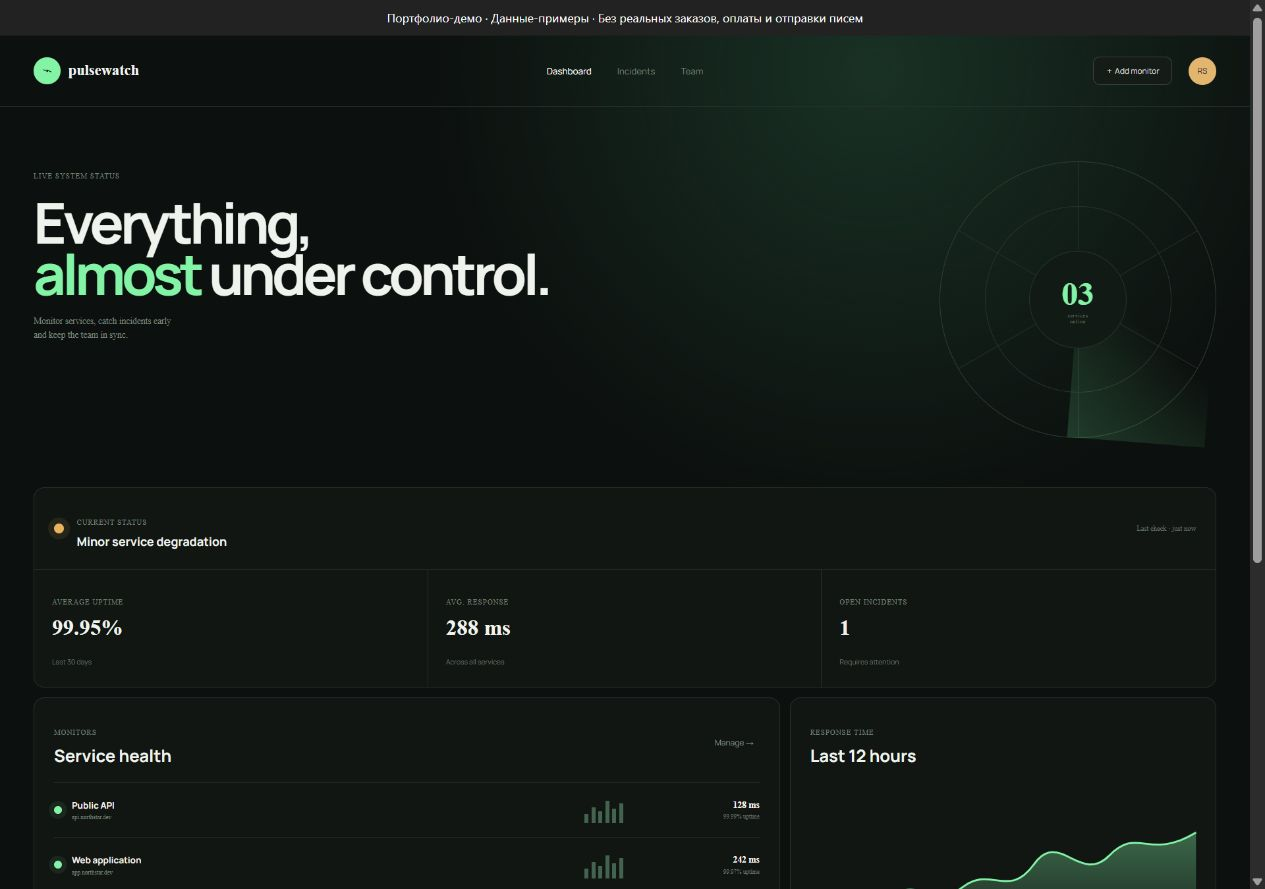
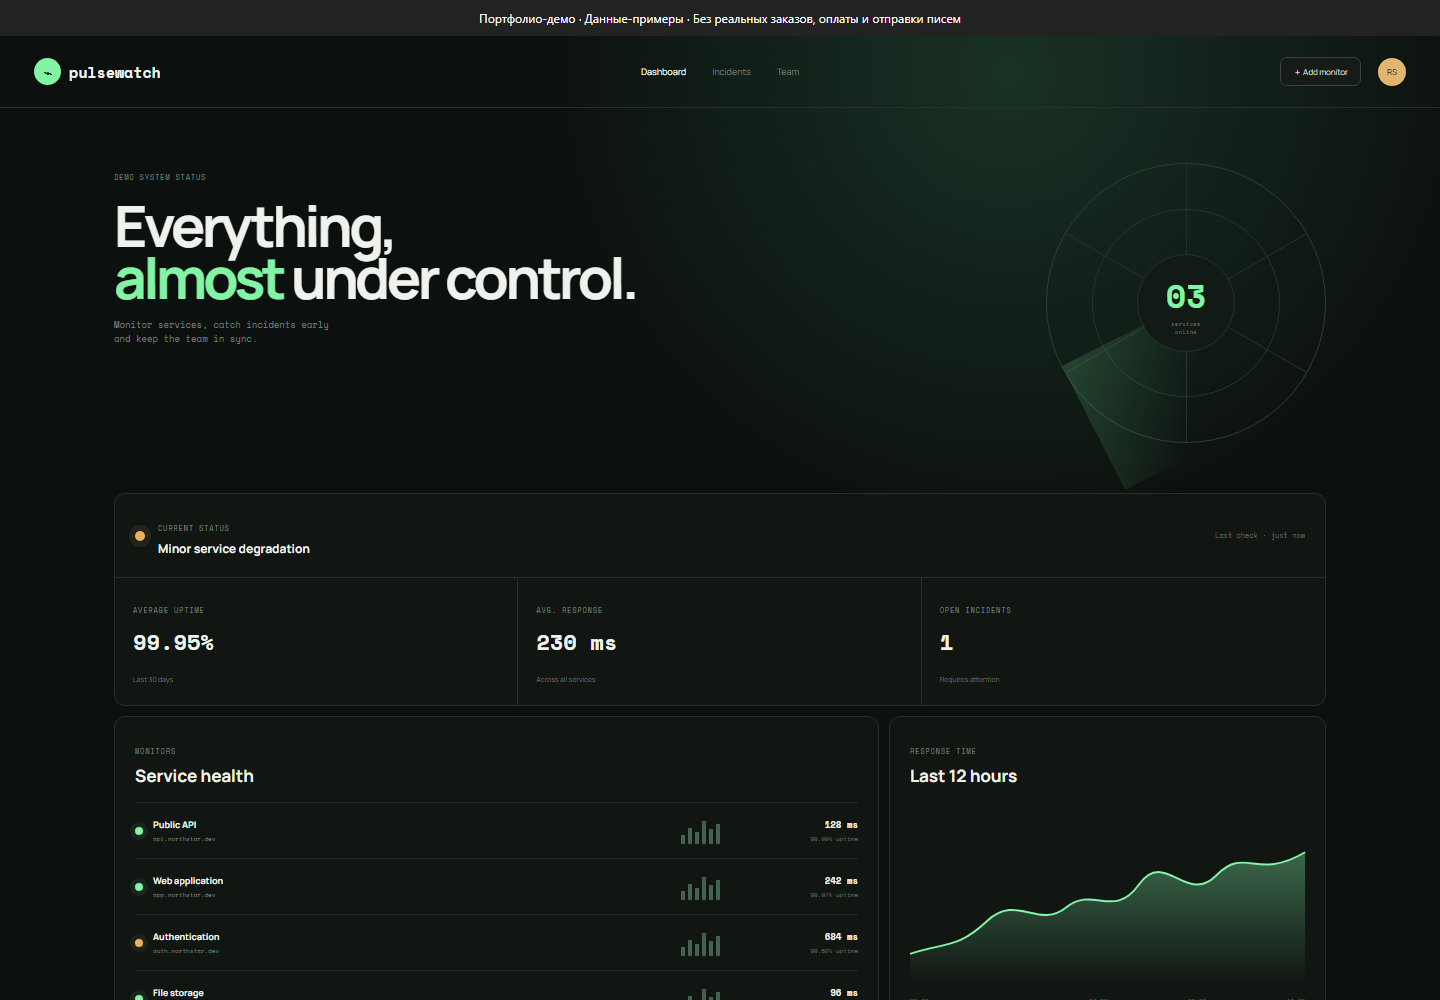
Complete responsive interactions and add browser regression checks

diff --git a/public/styles.css b/public/styles.css
@@ -1,1 +1,4 @@
 :root{font-family:Manrope,sans-serif;color:#f0f3ed;background:#0c100e;--green:#83f3a6;--line:#29302c;--muted:#7f8982}*{box-sizing:border-box}body{margin:0;min-width:320px;background:radial-gradient(circle at 70% 5%,#193125 0,transparent 28%),#0c100e}button,input{font:inherit}body>header{height:72px;display:grid;grid-template-columns:1fr auto 1fr;align-items:center;padding:0 34px;border-bottom:1px solid var(--line)}.logo{font:700 15px Space Mono}.logo i{display:inline-grid;place-items:center;width:27px;height:27px;margin-right:8px;border-radius:50%;background:var(--green);color:#101712;font-style:normal}nav{display:flex;gap:26px}nav a{color:#77817a;font-size:9px}nav .active{color:white}.add{justify-self:end;margin-right:45px;border:1px solid #3a443e;border-radius:7px;background:#151b17;color:#d9ddd8;padding:8px 12px;font-size:8px}.avatar{position:absolute;right:34px;display:grid;place-items:center;width:28px;height:28px;border-radius:50%;background:#e3b66f;color:#222;font-size:8px}main{max-width:1280px;margin:auto;padding:55px 34px 90px}.hero{display:flex;justify-content:space-between;min-height:330px}.hero small,.panel small,.overall small,.stats small{font:400 7px Space Mono;letter-spacing:.12em;color:#758078}.hero h1{margin:14px 0;font-size:57px;line-height:.92;letter-spacing:-.06em}.hero h1 em{color:var(--green);font-style:normal}.hero p{color:#78827b;font:400 9px/1.6 Space Mono}.radar{position:relative;width:280px;height:280px;border:1px solid #2d3e34;border-radius:50%}.radar:before,.radar:after{content:'';position:absolute;border:1px solid #26342c;border-radius:50%;inset:45px}.radar:after{inset:90px;background:#111a14}.radar>i{position:absolute;left:50%;top:0;bottom:0;border-left:1px solid #233129}.radar>i:nth-child(2){transform:rotate(60deg)}.radar>i:nth-child(3){transform:rotate(-60deg)}.radar span{position:absolute;z-index:2;left:50%;top:50%;transform:translate(-50%,-50%);font:700 33px Space Mono;color:var(--green);text-align:center}.radar span small{display:block;font-size:5px}.radar b{position:absolute;left:50%;top:50%;width:50%;height:50%;transform-origin:0 0;background:linear-gradient(35deg,#75ef9e30,transparent 70%);animation:scan 4s linear infinite}@keyframes scan{to{transform:rotate(360deg)}}.overview{border:1px solid var(--line);border-radius:11px;background:#111613}.overall{display:flex;align-items:center;gap:13px;padding:20px;border-bottom:1px solid var(--line)}.pulse{width:10px;height:10px;border-radius:50%;background:#e7b45d;box-shadow:0 0 0 6px #e7b45d18}.overall strong{display:block;margin-top:4px;font-size:12px}.overall time{margin-left:auto;color:#657068;font:400 7px Space Mono}.stats{display:grid;grid-template-columns:repeat(3,1fr)}.stats article{padding:18px;border-right:1px solid var(--line)}.stats article:last-child{border:0}.stats strong{display:block;margin:7px 0;font:700 22px Space Mono}.stats span{color:#6c766f;font-size:7px}.grid{display:grid;grid-template-columns:1.4fr .8fr;gap:10px;margin:10px 0}.panel{padding:20px;border:1px solid var(--line);border-radius:11px;background:#111613}.panel-head{display:flex;justify-content:space-between;align-items:center}.panel h2{margin:5px 0 0;font-size:17px}.panel-head button{border:0;background:none;color:#879189;font-size:8px}.monitor{display:grid;grid-template-columns:1fr 90px 75px;gap:12px;align-items:center;padding:14px 0;border-top:1px solid #242b27}.monitor:first-child{margin-top:15px}.monitor-name{display:flex;gap:10px;align-items:center}.monitor-name>i{width:8px;height:8px;border-radius:50%;background:var(--green);box-shadow:0 0 0 5px #83f3a613}.monitor.degraded .monitor-name>i{background:#e7b45d;box-shadow:0 0 0 5px #e7b45d13}.monitor b,.monitor small{display:block}.monitor b{font-size:9px}.monitor small{margin-top:3px;font:400 6px Space Mono;letter-spacing:0}.spark{display:flex;align-items:end;gap:3px;height:27px}.spark i{width:4px;background:#44634e}.spark i:nth-child(1){height:35%}.spark i:nth-child(2){height:60%}.spark i:nth-child(3){height:45%}.spark i:nth-child(4){height:85%}.spark i:nth-child(5){height:55%}.spark i:nth-child(6){height:75%}.monitor>span{text-align:right;font:700 9px Space Mono}.monitor>span small{color:#69736c}.line-chart{height:190px;margin-top:28px;display:grid;grid-template-columns:repeat(4,1fr);align-items:end}.line-chart svg{grid-column:1/-1;width:100%;height:155px;overflow:visible}.area{fill:url(#g)}.line{fill:none;stroke:var(--green);stroke-width:2}.line-chart>span{color:#59635c;font:400 6px Space Mono}.line-chart>span:not(:first-of-type){text-align:right}.latency-foot{display:flex;justify-content:space-between;align-items:end;margin-top:15px;padding-top:15px;border-top:1px solid var(--line)}.latency-foot>span{font:400 7px Space Mono;color:#748078}.latency-foot i{display:inline-block;width:6px;height:6px;margin-right:5px;border-radius:50%;background:var(--green)}.latency-foot strong{font:700 19px Space Mono}.latency-foot small{display:block;text-align:right;letter-spacing:0}.incident{display:grid;grid-template-columns:80px 1fr 100px;gap:18px;padding:16px 0;border-top:1px solid var(--line)}.incident:first-child{margin-top:15px}.incident time{font:400 7px Space Mono;color:#6f7972}.incident h3{margin:0 0 5px;font-size:10px}.incident p{margin:0;color:#7c867f;font-size:8px;line-height:1.5}.incident>span{height:max-content;padding:5px 7px;border-radius:12px;background:#253128;color:#8ce8a5;font-size:7px;text-align:center}.incident.open>span{background:#3c3221;color:#ecc174}.report{border:1px solid #3a443e!important;border-radius:6px!important;padding:7px 10px!important;color:#c2c8c3!important}dialog{width:min(440px,calc(100% - 24px));border:1px solid #354139;border-radius:14px;background:#151b17;color:#eef2ed;padding:0}dialog::backdrop{background:#050706b8}dialog form{position:relative;display:grid;gap:13px;padding:25px}dialog h2{margin:0 0 12px}dialog label{display:grid;gap:5px;color:#89938b;font-size:8px}dialog input{border:1px solid #354039;border-radius:7px;background:#0f1411;color:white;padding:10px}.close{position:absolute;right:15px;top:10px;border:0;background:none;color:white;font-size:22px}.submit{border:0;border-radius:7px;background:var(--green);color:#122016;padding:11px;font-size:9px;font-weight:700}@media(max-width:760px){body>header{grid-template-columns:1fr auto;padding:0 16px}nav,.add{display:none}.avatar{right:16px}main{padding:35px 14px 70px}.hero{min-height:310px}.hero h1{font-size:43px}.radar{position:absolute;right:-150px;opacity:.45}.stats{grid-template-columns:1fr}.stats article{border-right:0;border-bottom:1px solid var(--line)}.grid{grid-template-columns:1fr}.incident{grid-template-columns:65px 1fr}.incident>span{display:none}.monitor{grid-template-columns:1fr 60px}.spark{display:none}}
+
+.hero{position:relative;overflow:hidden}
+@media(max-width:760px){header .add{display:inline-flex;font-size:10px;padding:8px}header .avatar{display:none}}

diff --git a/public/index.html b/public/index.html
@@ -1,2 +1,2 @@
 <!doctype html><html lang="ru"><head><meta charset="UTF-8"><meta name="viewport" content="width=device-width,initial-scale=1"><meta name="description" content="Pulsewatch — мониторинг сервисов и инцидентов"><link rel="preconnect" href="https://fonts.googleapis.com"><link rel="preconnect" href="https://fonts.gstatic.com" crossorigin><link href="https://fonts.googleapis.com/css2?family=Manrope:wght@400;500;600;700&family=Space+Mono:wght@400;700&display=swap" rel="stylesheet"><link rel="stylesheet" href="styles.css"><title>Pulsewatch — service monitoring</title></head><body>
-<div role="note" style="padding:9px 16px;background:#222;color:#fff;font:12px/1.5 system-ui;text-align:center">Портфолио-демо · Данные-примеры · Без реальных заказов, оплаты и отправки писем</div><header><a class="logo"><i>⌁</i>pulsewatch</a><nav><a class="active">Dashboard</a><a>Incidents</a><a>Team</a></nav><button class="add">＋ Add monitor</button><span class="avatar">RS</span></header><main><section class="hero"><div><small>LIVE SYSTEM STATUS</small><h1>Everything,<br><em>almost</em> under control.</h1><p>Monitor services, catch incidents early<br>and keep the team in sync.</p></div><div class="radar"><i></i><i></i><i></i><span>03<small>services<br>online</small></span><b></b></div></section><section class="overview"><div class="overall"><span class="pulse"></span><div><small>CURRENT STATUS</small><strong id="overall">Checking systems…</strong></div><time>Last check · just now</time></div><div class="stats"><article><small>AVERAGE UPTIME</small><strong>99.95%</strong><span>Last 30 days</span></article><article><small>AVG. RESPONSE</small><strong id="average">—</strong><span>Across all services</span></article><article><small>OPEN INCIDENTS</small><strong id="open-count">—</strong><span>Requires attention</span></article></div></section><section class="grid"><div class="panel services"><div class="panel-head"><div><small>MONITORS</small><h2>Service health</h2></div><button>Manage →</button></div><div id="monitor-list"></div></div><div class="panel latency"><small>RESPONSE TIME</small><h2>Last 12 hours</h2><div class="line-chart"><svg viewBox="0 0 400 160" preserveAspectRatio="none"><defs><linearGradient id="g" x1="0" y1="0" x2="0" y2="1"><stop offset="0" stop-color="#8affb0" stop-opacity=".35"/><stop offset="1" stop-color="#8affb0" stop-opacity="0"/></linearGradient></defs><path class="area" d="M0,130 C35,118 48,125 78,96 S130,105 158,82 S206,95 232,58 S280,80 310,49 S350,55 400,25 L400,160 L0,160Z"/><path class="line" d="M0,130 C35,118 48,125 78,96 S130,105 158,82 S206,95 232,58 S280,80 310,49 S350,55 400,25"/></svg><span>00:00</span><span>04:00</span><span>08:00</span><span>12:00</span></div><div class="latency-foot"><span><i></i>Median 186ms</span><strong>242 ms<small>current</small></strong></div></div></section><section class="panel incidents"><div class="panel-head"><div><small>EVENT LOG</small><h2>Recent incidents</h2></div><button class="report">Report incident</button></div><div id="incident-list"></div></section></main><dialog><form id="monitor-form"><button type="button" class="close">×</button><small>NEW MONITOR</small><h2>Watch a service</h2><label>Display name<input name="name" required placeholder="Payments API"></label><label>Endpoint URL<input name="url" required placeholder="https://api.example.com/health"></label><button class="submit">Start monitoring →</button></form></dialog><script src="app.js"></script></body></html>
+<div role="note" style="padding:9px 16px;background:#222;color:#fff;font:12px/1.5 system-ui;text-align:center">Портфолио-демо · Данные-примеры · Без реальных заказов, оплаты и отправки писем</div><header><a class="logo"><i>⌁</i>pulsewatch</a><nav><a class="active">Dashboard</a><a>Incidents</a><a>Team</a></nav><button class="add">＋ Add monitor</button><span class="avatar">RS</span></header><main><section class="hero"><div><small>DEMO SYSTEM STATUS</small><h1>Everything,<br><em>almost</em> under control.</h1><p>Monitor services, catch incidents early<br>and keep the team in sync.</p></div><div class="radar"><i></i><i></i><i></i><span>03<small>services<br>online</small></span><b></b></div></section><section class="overview"><div class="overall"><span class="pulse"></span><div><small>CURRENT STATUS</small><strong id="overall">Checking systems…</strong></div><time>Last check · just now</time></div><div class="stats"><article><small>AVERAGE UPTIME</small><strong>99.95%</strong><span>Last 30 days</span></article><article><small>AVG. RESPONSE</small><strong id="average">—</strong><span>Across all services</span></article><article><small>OPEN INCIDENTS</small><strong id="open-count">—</strong><span>Requires attention</span></article></div></section><section class="grid"><div class="panel services"><div class="panel-head"><div><small>MONITORS</small><h2>Service health</h2></div></div><div id="monitor-list"></div></div><div class="panel latency"><small>RESPONSE TIME</small><h2>Last 12 hours</h2><div class="line-chart"><svg viewBox="0 0 400 160" preserveAspectRatio="none"><defs><linearGradient id="g" x1="0" y1="0" x2="0" y2="1"><stop offset="0" stop-color="#8affb0" stop-opacity=".35"/><stop offset="1" stop-color="#8affb0" stop-opacity="0"/></linearGradient></defs><path class="area" d="M0,130 C35,118 48,125 78,96 S130,105 158,82 S206,95 232,58 S280,80 310,49 S350,55 400,25 L400,160 L0,160Z"/><path class="line" d="M0,130 C35,118 48,125 78,96 S130,105 158,82 S206,95 232,58 S280,80 310,49 S350,55 400,25"/></svg><span>00:00</span><span>04:00</span><span>08:00</span><span>12:00</span></div><div class="latency-foot"><span><i></i>Median 186ms</span><strong>242 ms<small>current</small></strong></div></div></section><section class="panel incidents"><div class="panel-head"><div><small>EVENT LOG</small><h2>Recent incidents</h2></div><span>Sample incidents</span></div><div id="incident-list"></div></section></main><dialog><form id="monitor-form"><button type="button" class="close">×</button><small>NEW MONITOR</small><h2>Watch a service</h2><label>Display name<input name="name" required placeholder="Payments API"></label><label>Endpoint URL<input name="url" required placeholder="https://api.example.com/health"></label><button class="submit">Start monitoring →</button></form></dialog><script src="app.js"></script></body></html>

diff --git a/public/app.js b/public/app.js
@@ -1,1 +1,6 @@
-let data;async function load(){data=await fetch('/api/overview').then(r=>r.json());overall.textContent=data.overall==='operational'?'All systems operational':data.overall==='degraded'?'Minor service degradation':'Service interruption';const avg=Math.round(data.monitors.reduce((a,m)=>a+m.response_ms,0)/data.monitors.length);average.textContent=`${avg} ms`;document.querySelector('#open-count').textContent=data.incidents.filter(i=>i.status!=='resolved').length;document.querySelector('#monitor-list').innerHTML=data.monitors.map(m=>`<article class="monitor ${m.status}"><div class="monitor-name"><i></i><span><b>${m.name}</b><small>${m.url}</small></span></div><div class="spark"><i></i><i></i><i></i><i></i><i></i><i></i></div><span>${m.response_ms} ms<small>${m.uptime}% uptime</small></span></article>`).join('');document.querySelector('#incident-list').innerHTML=data.incidents.map(i=>`<article class="incident ${i.status==='resolved'?'':'open'}"><time>${new Date(i.started_at).toLocaleDateString('ru-RU',{day:'numeric',month:'short'})}</time><div><h3>${i.title}</h3><p>${i.detail}</p></div><span>${i.status==='resolved'?'Resolved':'Investigating'}</span></article>`).join('')}const dialog=document.querySelector('dialog');document.querySelector('.add').onclick=()=>dialog.showModal();document.querySelector('.close').onclick=()=>dialog.close();document.querySelector('#monitor-form').onsubmit=async e=>{e.preventDefault();const d=new FormData(e.target);await fetch('/api/monitors',{method:'POST',headers:{'Content-Type':'application/json'},body:JSON.stringify({name:d.get('name'),url:d.get('url')})});dialog.close();e.target.reset();load()};load();
+const loadFeedback=document.createElement('p');loadFeedback.className='load-feedback';loadFeedback.setAttribute('role','status');loadFeedback.style.cssText='position:fixed;bottom:16px;left:16px;right:16px;z-index:9999;background:#fff8dd;color:#222;padding:12px 20px;margin:0;font:14px/1.5 system-ui;border-radius:8px';document.querySelector('main').prepend(loadFeedback);let lastLoadArgs=[];
+async function load(...args){lastLoadArgs=args;loadFeedback.hidden=false;loadFeedback.textContent='Загрузка данных…';try{await loadData(...args);loadFeedback.textContent='';loadFeedback.hidden=true;}catch(error){loadFeedback.textContent='Не удалось загрузить данные. ';const retry=document.createElement('button');retry.type='button';retry.textContent='Повторить загрузку';retry.onclick=()=>load(...lastLoadArgs);loadFeedback.append(retry);}}
+const escapeText=v=>String(v).replace(/[&<>"\']/g,c=>({"&":"&amp;","<":"&lt;",">":"&gt;",'"':"&quot;", "\'":"&#39;"}[c]));
+let data;async function loadData(){data=await fetch('/api/overview').then(r=>{if(!r.ok)throw new Error('HTTP '+r.status);return r.json()});overall.textContent=data.overall==='operational'?'All systems operational':data.overall==='degraded'?'Minor service degradation':'Service interruption';const avg=Math.round(data.monitors.reduce((a,m)=>a+m.response_ms,0)/data.monitors.length);average.textContent=`${avg} ms`;document.querySelector('#open-count').textContent=data.incidents.filter(i=>i.status!=='resolved').length;document.querySelector('#monitor-list').innerHTML=data.monitors.map(m=>`<article class="monitor ${m.status}"><div class="monitor-name"><i></i><span><b>${escapeText(m.name)}</b><small>${escapeText(m.url)}</small></span></div><div class="spark"><i></i><i></i><i></i><i></i><i></i><i></i></div><span>${m.response_ms} ms<small>${m.uptime}% uptime</small></span></article>`).join('');document.querySelector('#incident-list').innerHTML=data.incidents.map(i=>`<article class="incident ${i.status==='resolved'?'':'open'}"><time>${new Date(i.started_at).toLocaleDateString('ru-RU',{day:'numeric',month:'short'})}</time><div><h3>${escapeText(i.title)}</h3><p>${escapeText(i.detail)}</p></div><span>${i.status==='resolved'?'Resolved':'Investigating'}</span></article>`).join('')}const dialog=document.querySelector('dialog');document.querySelector('.add').onclick=()=>dialog.showModal();document.querySelector('.close').onclick=()=>dialog.close();document.querySelector('#monitor-form').onsubmit=async e=>{e.preventDefault();const d=new FormData(e.target);const response=await fetch('/api/monitors',{method:'POST',headers:{'Content-Type':'application/json'},body:JSON.stringify({name:d.get('name'),url:d.get('url')})});if(!response.ok){const error=await response.json();window.alert(error.message||'Не удалось сохранить монитор');return}dialog.close();e.target.reset();load()};load();
+
+for(const form of document.querySelectorAll('form')){const submit=form.onsubmit;if(!submit)continue;form.onsubmit=async event=>{event.preventDefault();const button=form.querySelector('button[type=submit],button.send,button:not([type])');if(button)button.disabled=true;try{await submit(event);}catch{let message=form.querySelector('[role=alert]');if(!message){message=document.createElement('p');message.setAttribute('role','alert');form.append(message);}message.textContent='Не удалось выполнить запрос. Повторите действие; введённые данные остаются в форме.';}finally{if(button)button.disabled=false;}};}

diff --git a/docs/VERIFICATION.md b/docs/VERIFICATION.md
@@ -1,8 +1,5 @@
-# Проверка версии
+# Проверка 24 октября 2026
 
-23 октября 2026.
+Установка зависимостей, существующие API-тесты и новые Playwright-сценарии завершились успешно. Браузер проверен на 1280 × 900 и 390 × 844: загрузка, ширина страницы, отказ API 503 и доступная кнопка повтора. В Nestly дополнительно проверен фильтр избранного.
 
-- `install`: успешно (exit code 0).
-- `test`: успешно (exit code 0).
-
-Зависимости установлены заново в отдельном checkout; `.venv`/`node_modules` не входят в репозиторий. Проверки выполнялись локально; актуальный результат CI виден во вкладке Actions. Нагрузочное тестирование и production-аудит не проводились.
+CI повторяет API и браузерные тесты. Не проводились нагрузочные испытания, проверка мобильных устройств и production-аудит. Данные и бизнес-показатели остаются демонстрационными, как указано в README.

diff --git a/README.md b/README.md
@@ -38,6 +38,15 @@ pnpm start
 - Uptime, графики и подписи времени в макете не являются результатом наблюдений за реальными сервисами.
 - Не реализованы уведомления, команда, авторизация и SLA.
 
+## Проверка интерфейса
+
+Playwright проверяет компьютерную и мобильную версии, отсутствие горизонтального прокручивания и повтор загрузки после ответа API 503. Ошибка отправки формы сохраняет введённые данные.
+
+```bash
+pnpm exec playwright install chromium
+pnpm test:e2e
+```
+
 ## Подробности
 [API, конфигурация и исходные инструкции](docs/TECHNICAL.md).
 
